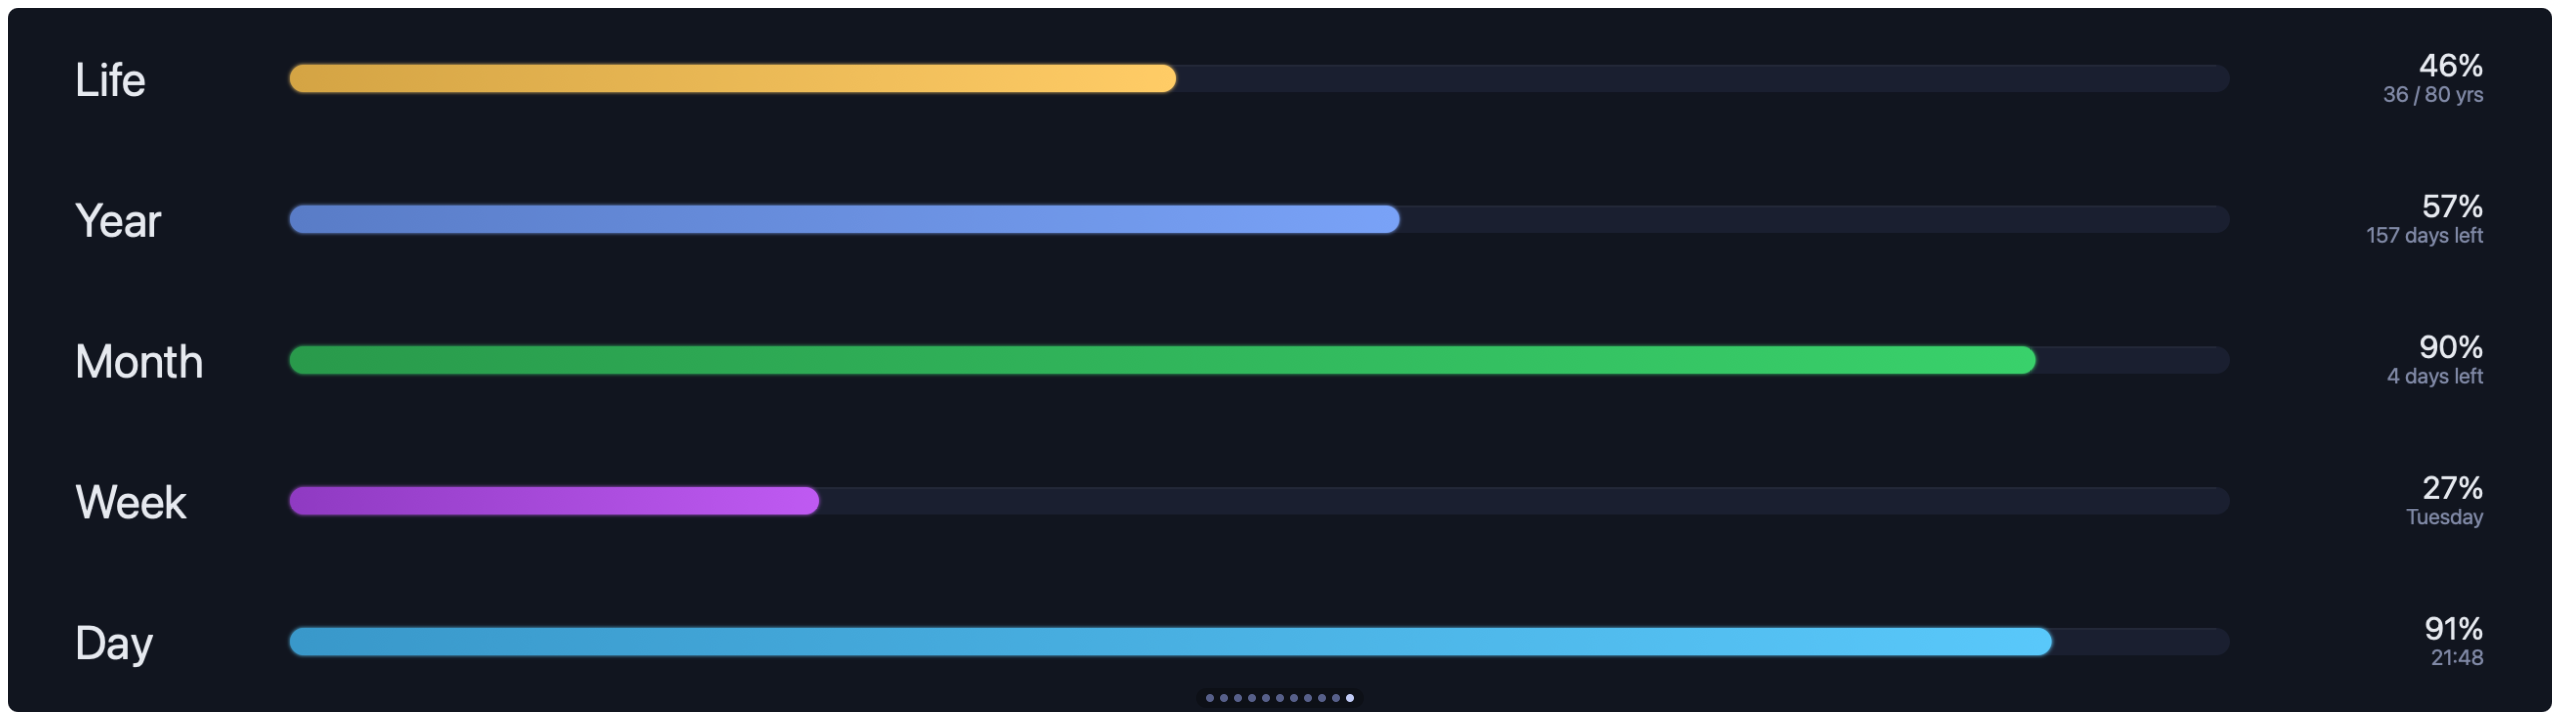
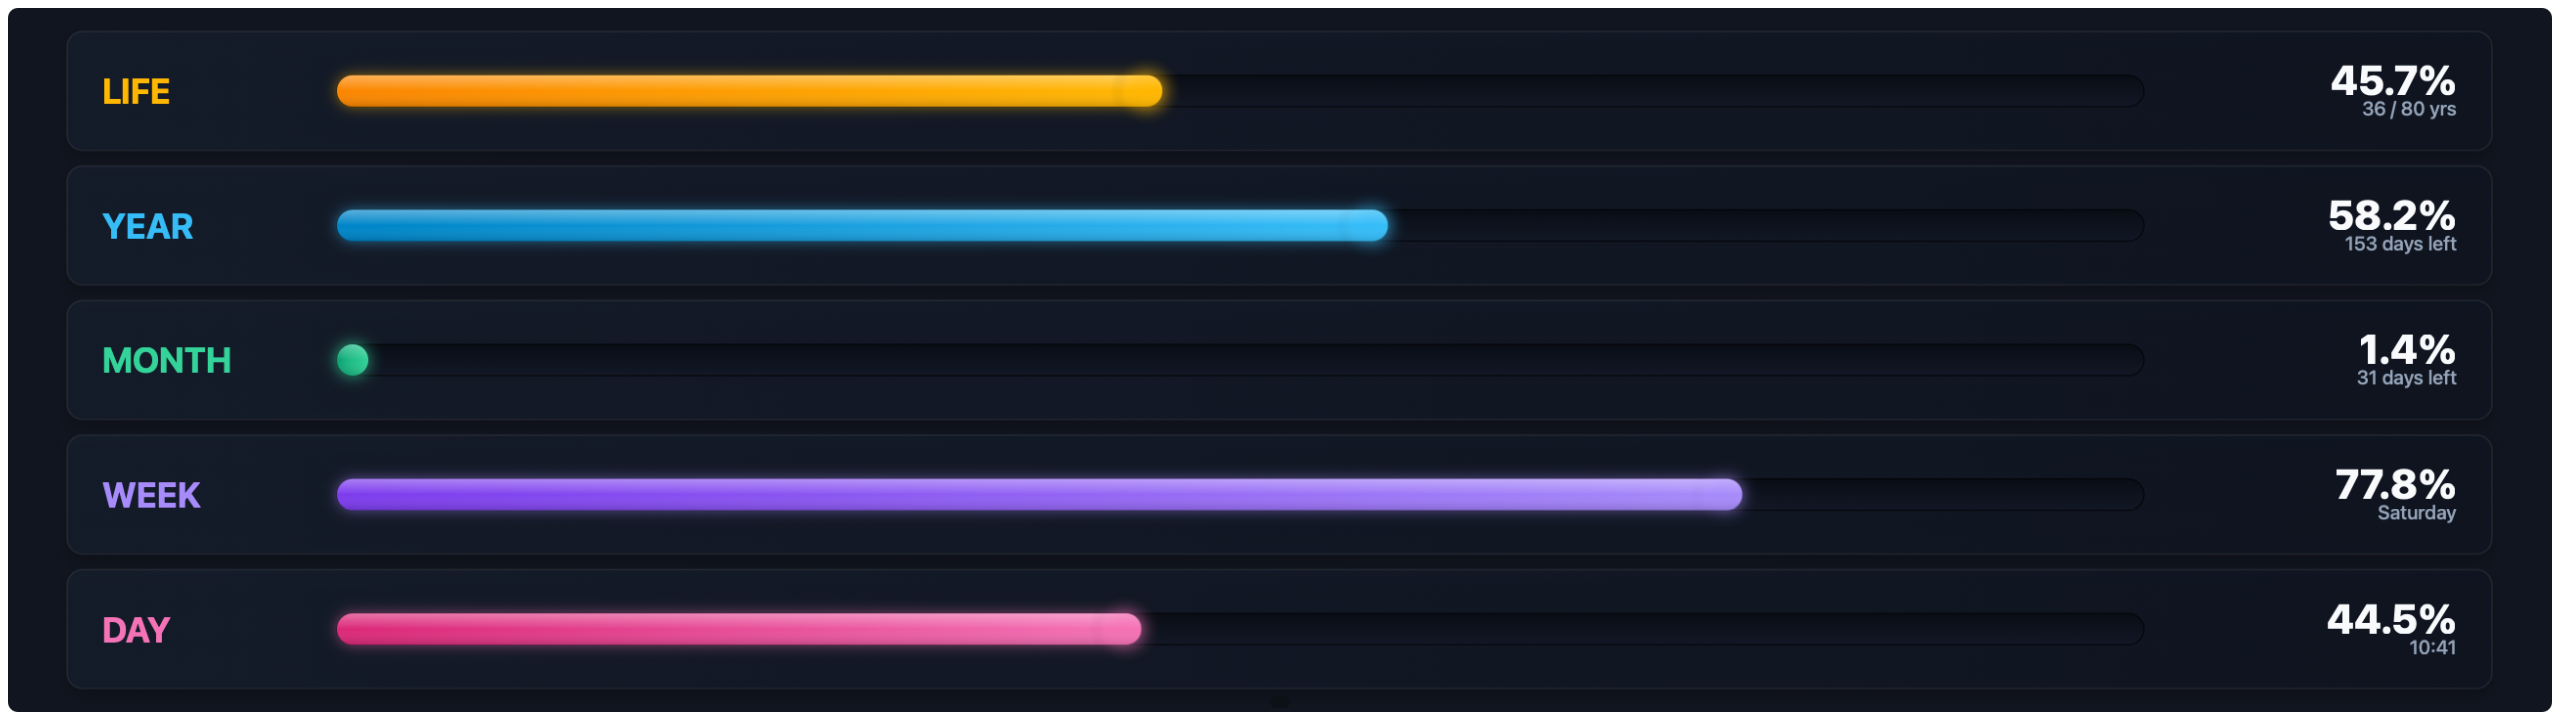
feat: glassmorphism visual refresh for Life Progress
Card-based rows with gradient/glow tracks, glass reflection overlay,
and a pulsing leading-edge glow dot per bar. progress.js untouched.

diff --git a/com.vardek.life-progress/index.html b/com.vardek.life-progress/index.html
@@ -27,21 +27,22 @@
   let cfg = defaults;
 
   function roundRect(x, y, w, h, r) {
+    const radius = Math.min(r, w / 2, h / 2);
     ctx.beginPath();
-    ctx.moveTo(x + r, y);
-    ctx.arcTo(x + w, y, x + w, y + h, r);
-    ctx.arcTo(x + w, y + h, x, y + h, r);
-    ctx.arcTo(x, y + h, x, y, r);
-    ctx.arcTo(x, y, x + w, y, r);
+    ctx.moveTo(x + radius, y);
+    ctx.arcTo(x + w, y, x + w, y + h, radius);
+    ctx.arcTo(x + w, y + h, x, y + h, radius);
+    ctx.arcTo(x, y + h, x, y, radius);
+    ctx.arcTo(x, y, x + w, y, radius);
     ctx.closePath();
   }
 
   const colorMap = {
-    life:  { main: "#ffcc66", dark: "#b38a30", glow: "255,204,102" },
-    year:  { main: "#7aa2f7", dark: "#4a6cc0", glow: "122,162,247" },
-    month: { main: "#3ad16b", dark: "#1f8a42", glow: "58,209,107" },
-    week:  { main: "#bf5af2", dark: "#8a30c0", glow: "191,90,242" },
-    day:   { main: "#5ac8fa", dark: "#2a88c0", glow: "90,200,250" }
+    life:  { main: "#ffb703", dark: "#fb8500", glow: "255,183,3" },
+    year:  { main: "#38bdf8", dark: "#0284c7", glow: "56,189,248" },
+    month: { main: "#34d399", dark: "#059669", glow: "52,211,153" },
+    week:  { main: "#a78bfa", dark: "#7c3aed", glow: "167,139,250" },
+    day:   { main: "#f472b6", dark: "#db2777", glow: "244,114,182" }
   };
 
   function draw() {
@@ -51,109 +52,126 @@
     const n = bars.length;
     if (n === 0) return;
 
-    const rowH = H / n;
-    const padX = 60;
-    const labelW = 260;
-    const rightW = 300;
-    const trackH = 40;
-    const trackX = padX + labelW;
-    const trackW = W - trackX - rightW - padX;
+    const outerPadX = 40;
+    const outerPadY = 24;
+    const availableH = H - (outerPadY * 2);
+    const gap = Math.min(16, availableH / (n * 4));
+    const cardH = (availableH - (gap * (n - 1))) / n;
+
+    const labelW = 240;
+    const rightW = 320;
+    const cardPadX = 36;
+    const trackH = Math.min(32, cardH * 0.38);
     const t = Date.now() / 1000;
 
     bars.forEach((bar, i) => {
-      const cy = rowH * i + rowH / 2;
+      const cardY = outerPadY + i * (cardH + gap);
+      const cardX = outerPadX;
+      const cardW = W - (outerPadX * 2);
+      const cy = cardY + cardH / 2;
       const colors = colorMap[bar.key] || colorMap.year;
-      const trackY = cy - trackH / 2;
 
-      if (i > 0) {
-        ctx.strokeStyle = "rgba(255, 255, 255, 0.04)";
-        ctx.lineWidth = 1;
-        ctx.beginPath();
-        ctx.moveTo(padX, rowH * i);
-        ctx.lineTo(W - padX, rowH * i);
-        ctx.stroke();
-      }
+      // Card background (glassmorphism panel)
+      const cardGrad = ctx.createLinearGradient(cardX, cardY, cardX + cardW, cardY + cardH);
+      cardGrad.addColorStop(0, "rgba(22, 30, 46, 0.75)");
+      cardGrad.addColorStop(1, "rgba(15, 21, 33, 0.85)");
 
-      // Label in accent color
+      ctx.shadowColor = "rgba(0, 0, 0, 0.35)";
+      ctx.shadowBlur = 16;
+      ctx.shadowOffsetY = 6;
+      ctx.fillStyle = cardGrad;
+      roundRect(cardX, cardY, cardW, cardH, 16);
+      ctx.fill();
+
+      // Card border
+      ctx.shadowBlur = 0;
+      ctx.shadowOffsetY = 0;
+      ctx.shadowColor = "transparent";
+      ctx.strokeStyle = "rgba(255, 255, 255, 0.08)";
+      ctx.lineWidth = 1.5;
+      roundRect(cardX, cardY, cardW, cardH, 16);
+      ctx.stroke();
+
+      // Label
+      const labelX = cardX + cardPadX;
       ctx.textBaseline = "middle";
       ctx.textAlign = "left";
-      ctx.font = "600 46px -apple-system, 'Helvetica Neue', sans-serif";
+      ctx.font = "700 36px -apple-system, BlinkMacSystemFont, 'SF Pro Display', sans-serif";
       ctx.fillStyle = colors.main;
-      ctx.fillText(bar.label, padX, cy);
+      ctx.fillText(bar.label.toUpperCase(), labelX, cy);
 
-      // Track with inset gradient
+      // Track configuration
+      const trackX = labelX + labelW;
+      const trackW = cardW - (cardPadX * 2) - labelW - rightW;
+      const trackY = cy - trackH / 2;
+
+      // Track inset background
       const trackGrad = ctx.createLinearGradient(0, trackY, 0, trackY + trackH);
-      trackGrad.addColorStop(0, "#080c14");
-      trackGrad.addColorStop(1, "#121826");
+      trackGrad.addColorStop(0, "rgba(8, 12, 20, 0.9)");
+      trackGrad.addColorStop(1, "rgba(18, 24, 38, 0.9)");
       ctx.fillStyle = trackGrad;
       roundRect(trackX, trackY, trackW, trackH, trackH / 2);
       ctx.fill();
 
-      // Track inner shadow
-      ctx.strokeStyle = "rgba(0, 0, 0, 0.5)";
+      // Track subtle inner border
+      ctx.strokeStyle = "rgba(0, 0, 0, 0.6)";
       ctx.lineWidth = 1.5;
-      ctx.beginPath();
-      ctx.moveTo(trackX + trackH / 2, trackY + 1);
-      ctx.lineTo(trackX + trackW - trackH / 2, trackY + 1);
+      roundRect(trackX, trackY, trackW, trackH, trackH / 2);
       ctx.stroke();
 
-      // Track bottom rim light
-      ctx.strokeStyle = "rgba(255, 255, 255, 0.03)";
-      ctx.lineWidth = 1;
-      ctx.beginPath();
-      ctx.moveTo(trackX + trackH / 2, trackY + trackH - 1);
-      ctx.lineTo(trackX + trackW - trackH / 2, trackY + trackH - 1);
-      ctx.stroke();
-
+      // Filled progress track
       const fillW = Math.max(trackH, trackW * bar.fraction);
       if (bar.fraction > 0) {
         const grad = ctx.createLinearGradient(trackX, 0, trackX + fillW, 0);
         grad.addColorStop(0, colors.dark);
         grad.addColorStop(1, colors.main);
 
-        ctx.shadowColor = colors.main;
-        ctx.shadowBlur = 18;
+        ctx.shadowColor = "rgba(" + colors.glow + ", 0.5)";
+        ctx.shadowBlur = 14;
         ctx.fillStyle = grad;
         roundRect(trackX, trackY, fillW, trackH, trackH / 2);
         ctx.fill();
         ctx.shadowBlur = 0;
         ctx.shadowColor = "transparent";
 
-        // Glass highlight
+        // Glass reflection overlay
         const glass = ctx.createLinearGradient(0, trackY, 0, trackY + trackH);
-        glass.addColorStop(0, "rgba(255, 255, 255, 0.25)");
-        glass.addColorStop(0.35, "rgba(255, 255, 255, 0.07)");
+        glass.addColorStop(0, "rgba(255, 255, 255, 0.35)");
+        glass.addColorStop(0.4, "rgba(255, 255, 255, 0.08)");
         glass.addColorStop(0.5, "rgba(255, 255, 255, 0)");
-        glass.addColorStop(1, "rgba(0, 0, 0, 0.12)");
+        glass.addColorStop(1, "rgba(0, 0, 0, 0.15)");
         ctx.fillStyle = glass;
         roundRect(trackX, trackY, fillW, trackH, trackH / 2);
         ctx.fill();
 
-        // Pulsing leading-edge glow
+        // Pulsing leading edge glow dot
         if (bar.fraction > 0.01 && bar.fraction < 0.99) {
-          const edgeX = trackX + fillW;
-          const pulse = 0.5 + 0.5 * Math.sin(t * 2 + i * 1.2);
-          const r = trackH * 1.8;
+          const edgeX = trackX + fillW - (trackH / 2);
+          const pulse = 0.5 + 0.5 * Math.sin(t * 3 + i * 1.2);
+          const r = trackH * 1.2;
           const radGrad = ctx.createRadialGradient(edgeX, cy, 0, edgeX, cy, r);
-          radGrad.addColorStop(0, "rgba(" + colors.glow + "," + (0.15 + 0.25 * pulse) + ")");
-          radGrad.addColorStop(0.5, "rgba(" + colors.glow + "," + (0.04 + 0.06 * pulse) + ")");
-          radGrad.addColorStop(1, "rgba(0,0,0,0)");
+          radGrad.addColorStop(0, "rgba(" + colors.glow + "," + (0.3 + 0.3 * pulse) + ")");
+          radGrad.addColorStop(0.6, "rgba(" + colors.glow + "," + (0.05 + 0.1 * pulse) + ")");
+          radGrad.addColorStop(1, "rgba(0, 0, 0, 0)");
           ctx.fillStyle = radGrad;
-          ctx.fillRect(edgeX - r, cy - r, r * 2, r * 2);
+          ctx.beginPath();
+          ctx.arc(edgeX, cy, r, 0, Math.PI * 2);
+          ctx.fill();
         }
       }
 
-      // Percentage
+      // Percentage display
+      const rightX = cardX + cardW - cardPadX;
       ctx.textAlign = "right";
       ctx.textBaseline = "middle";
-      ctx.font = "700 44px -apple-system, 'Helvetica Neue', sans-serif";
-      ctx.fillStyle = "#e6e9ef";
-      ctx.fillText(Math.round(bar.fraction * 100) + "%", W - padX, cy - 14);
+      ctx.font = "800 42px -apple-system, BlinkMacSystemFont, 'SF Pro Display', sans-serif";
+      ctx.fillStyle = "#f8fafc";
+      ctx.fillText((bar.fraction * 100).toFixed(1) + "%", rightX, cy - 12);
 
-      // Detail
-      ctx.font = "22px -apple-system, 'Helvetica Neue', sans-serif";
-      ctx.fillStyle = "#5a6380";
-      ctx.fillText(bar.detail, W - padX, cy + 16);
+      // Sub-detail text
+      ctx.font = "500 20px -apple-system, BlinkMacSystemFont, 'SF Pro Text', sans-serif";
+      ctx.fillStyle = "#94a3b8";
+      ctx.fillText(bar.detail, rightX, cy + 18);
     });
   }
 
